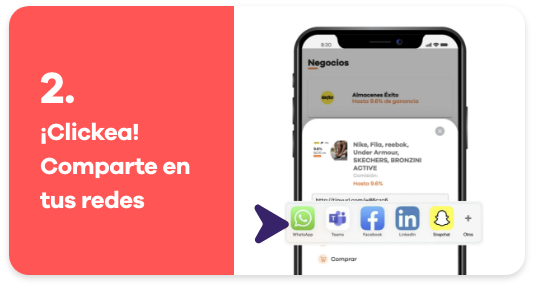
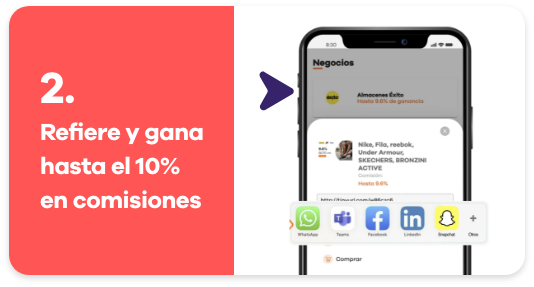
Feature: table css and copys slide home

diff --git a/src/app/modules/clicker/components/table-historical-links/table-historical-links.component.html b/src/app/modules/clicker/components/table-historical-links/table-historical-links.component.html
@@ -3,15 +3,15 @@
   
       <!-- Product Name Column -->
       <ng-container matColumnDef="productname">
-        <th mat-header-cell *matHeaderCellDef> <span class="galano-bold gray-light">{{ 'HISTORICAL.PRODUCT' | translate }} </span></th>
+        <th mat-header-cell *matHeaderCellDef> <span class="galano-bold ">{{ 'HISTORICAL.PRODUCT' | translate }} </span></th>
         <td mat-cell *matCellDef="let element; let i=index"> 
-          <span class="orange-text">{{element.productname}}</span>
+          <span>{{element.productname}}</span>
         </td>
       </ng-container>
 
       <!-- Date column -->
       <ng-container matColumnDef="date">
-        <th mat-header-cell *matHeaderCellDef class="text-center"> <span class="galano-bold gray-light">{{ 'HISTORICAL.DATE' | translate }} </span></th>
+        <th mat-header-cell *matHeaderCellDef class="text-center"> <span class="galano-bold ">{{ 'HISTORICAL.DATE' | translate }} </span></th>
         <td mat-cell class="text-center" *matCellDef="let element"> 
         {{element.date | date: 'yyyy-MM-dd'}}
         </td>
@@ -19,19 +19,19 @@
   
       <!-- Comissions Column -->
       <ng-container matColumnDef="comission">
-        <th mat-header-cell *matHeaderCellDef class="text-center" > <span class="galano-bold gray-light">{{ 'HISTORICAL.GENERATED_COMISSIONS' | translate }}</span></th>
+        <th mat-header-cell *matHeaderCellDef class="text-center" > <span class="galano-bold ">{{ 'HISTORICAL.GENERATED_COMISSIONS' | translate }}</span></th>
         <td mat-cell class="text-center" *matCellDef="let element"> {{element.commission  | currency : '' : 'symbol' : '1.0-0'}} </td>
       </ng-container>
 
       <!-- total Column -->
       <ng-container matColumnDef="total">
-        <th mat-header-cell *matHeaderCellDef class="text-center" > <span class="galano-bold gray-light">{{ 'HISTORICAL.TOTAL_SELL' | translate }}</span></th>
+        <th mat-header-cell *matHeaderCellDef class="text-center" > <span class="galano-bold ">{{ 'HISTORICAL.TOTAL_SELL' | translate }}</span></th>
         <td mat-cell class="text-center" *matCellDef="let element"> {{element.products}} </td>
       </ng-container>
 
       <!-- visits Column -->
       <ng-container matColumnDef="visits">
-        <th mat-header-cell *matHeaderCellDef class="text-center" > <span class="galano-bold gray-light">{{ 'HISTORICAL.VISITS' | translate }}</span></th>
+        <th mat-header-cell *matHeaderCellDef class="text-center" > <span class="galano-bold ">{{ 'HISTORICAL.VISITS' | translate }}</span></th>
         <td mat-cell class="text-center" *matCellDef="let element"> {{element.visits}} </td>
       </ng-container>
   

diff --git a/src/assets/styles/_general.scss b/src/assets/styles/_general.scss
@@ -6,6 +6,18 @@ body {
   color: $color-p;
 }
 
+.mat-row:nth-child(even), thead{
+  background-color:#F3F1F6 !important;
+}
+
+table tr:nth-child(even){
+  background-color:#F3F1F6 !important;
+}
+
+thead, th.mat-header-cell{
+  color: $primary-color !important;
+}
+
 body {
   margin: 0;
   font-family: $font-family-base;
@@ -495,7 +507,7 @@ table {
   color: $color-p;
   thead {
     background: #ececec;
-    color: #707070;
+    color: $primary-color;
   }
   th {
     padding: 5px 10px;
@@ -508,9 +520,7 @@ table {
 .tableComission {
   color: $color-p;
   thead {
-    background: #ececec;
-    color: #707070;
-    box-shadow: 0px 3px 6px #00000029;
+    color: $primary-color;
     line-height: 2;
   }
   th {

diff --git a/src/app/modules/anonymous/components/slider-works/slider-works.component.ts b/src/app/modules/anonymous/components/slider-works/slider-works.component.ts
@@ -22,9 +22,9 @@ export class SliderWorksComponent implements OnInit {
       image: "/assets/img/home/tarjeta-1.png",
     },
     {
-      title: "Gana dinero por referir y comprar",
+      title: "Gana hasta el 10% en comisiones.",
       text:
-        "Clickea nuestros links, comparte, compra o refiere y gana dinero por las ventas y las compras que generen estos links.",
+        "Por comprar o referir los comercios aliados de clickam, los comercios aliados le pagan a clickam una comisión por enviar tráfico a sus sitios web y clickam comparte esta comisión con los usuarios.",
       image: "/assets/img/home/tarjeta-2.png",
     },
     {

diff --git a/src/app/modules/clicker/components/table-historical-links/table-historical-links.component.scss b/src/app/modules/clicker/components/table-historical-links/table-historical-links.component.scss
@@ -3,6 +3,9 @@
 
 table {
     width: 100%;
+    th{
+      color: $primary-color;
+    }
   }
 
   .red {
@@ -18,6 +21,6 @@ table {
     color: #969696;
   }
 
-  td.mat-cell:first-of-type, td.mat-footer-cell:first-of-type, th.mat-header-cell:first-of-type{
-    padding-left: 0 !important;
-  }
+  // td.mat-cell:first-of-type, td.mat-footer-cell:first-of-type, th.mat-header-cell:first-of-type{
+  //   padding-left: 0 !important;
+  // }

diff --git a/src/app/modules/clicker/components/table-detail-comission/table-detail-comission.component.scss b/src/app/modules/clicker/components/table-detail-comission/table-detail-comission.component.scss
@@ -5,7 +5,7 @@ table {
     th{
       width: 33.3%;
       font-family: $font-galano-bold;
-      color: $gray2;
+      color: $primary-color;
     }
     td{
       padding-right: 15px;
